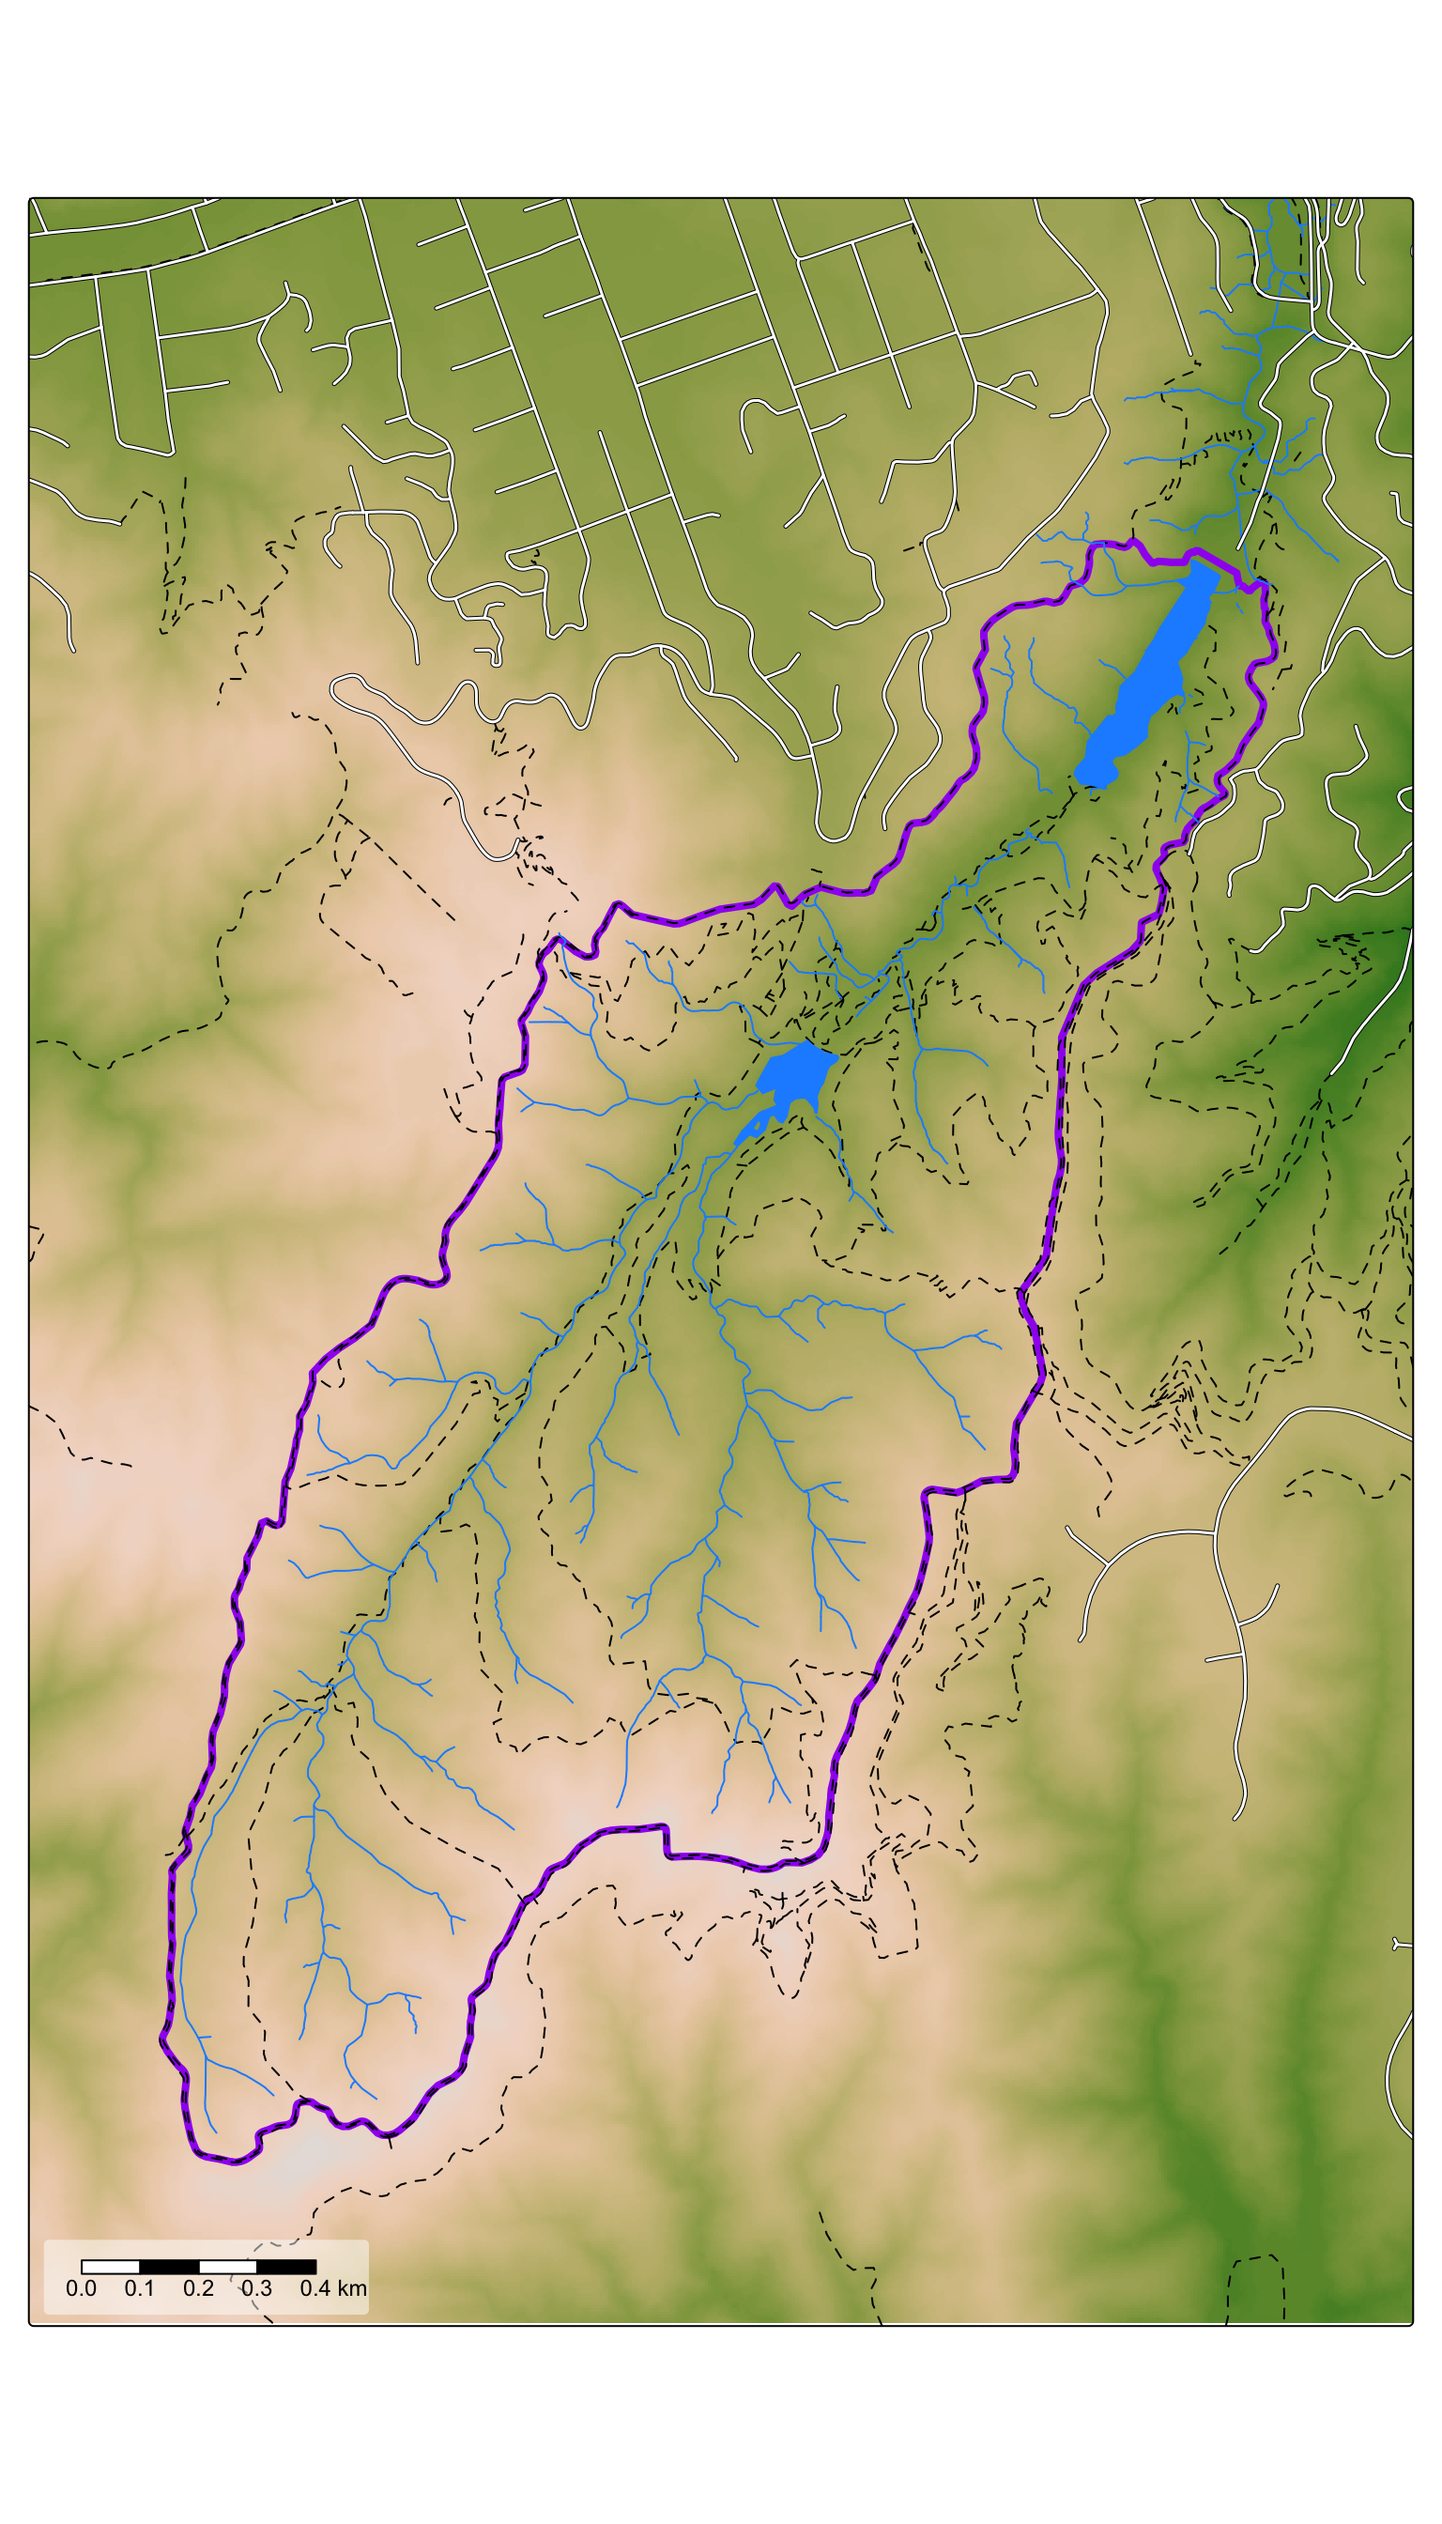
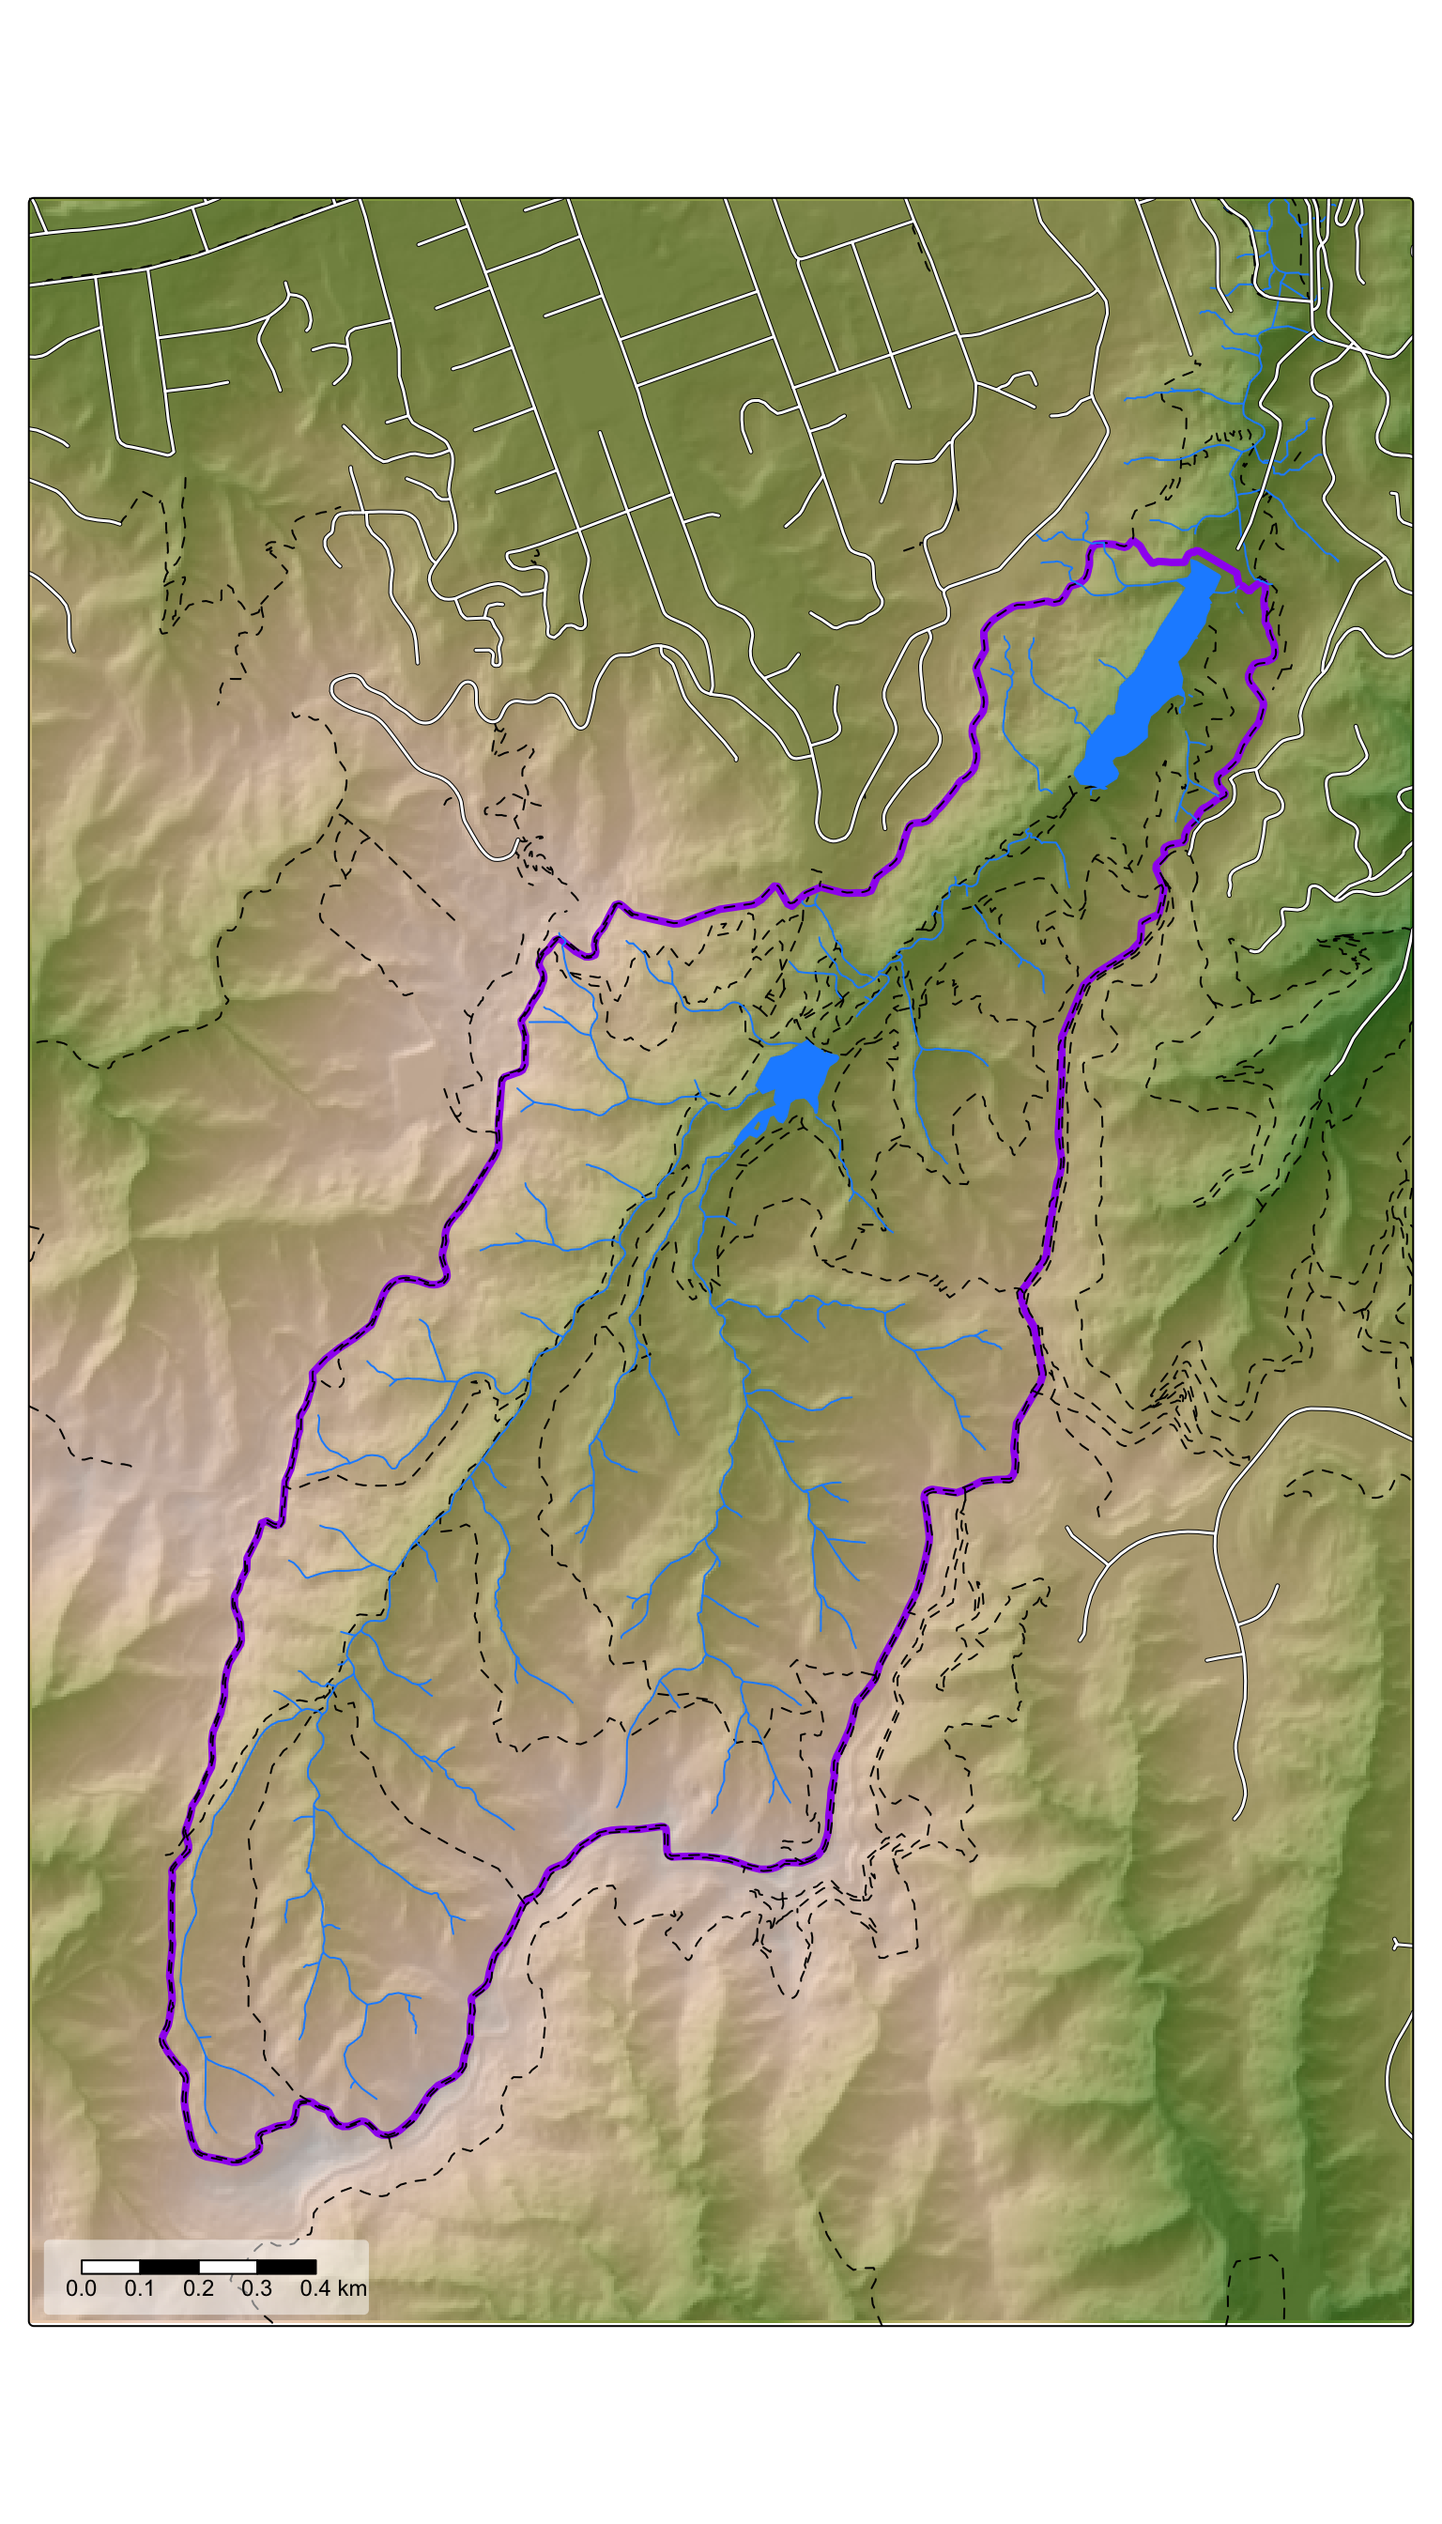
added hillshade to the zealandia location map

diff --git a/docs/posts/2025-10-23-gia-chapter-1B-part-4/index.html b/docs/posts/2025-10-23-gia-chapter-1B-part-4/index.html
@@ -340,7 +340,9 @@ window.Quarto = {
 <span id="cb3-3"><a href="#cb3-3" aria-hidden="true" tabindex="-1"></a>fence <span class="ot">&lt;-</span> <span class="fu">st_read</span>(<span class="st">"fences.gpkg"</span>) <span class="sc">|&gt;</span> <span class="fu">select</span>(NAME, TYPE) <span class="sc">|&gt;</span> <span class="fu">filter</span>(TYPE <span class="sc">==</span> <span class="st">"Main"</span>)</span>
 <span id="cb3-4"><a href="#cb3-4" aria-hidden="true" tabindex="-1"></a>streams <span class="ot">&lt;-</span> <span class="fu">st_read</span>(<span class="st">"streams.gpkg"</span>) <span class="sc">|&gt;</span> <span class="fu">select</span>()</span>
 <span id="cb3-5"><a href="#cb3-5" aria-hidden="true" tabindex="-1"></a>lake <span class="ot">&lt;-</span> <span class="fu">st_read</span>(<span class="st">"lake.gpkg"</span>) <span class="sc">|&gt;</span> <span class="fu">select</span>(name)</span>
-<span id="cb3-6"><a href="#cb3-6" aria-hidden="true" tabindex="-1"></a>roads <span class="ot">&lt;-</span> <span class="fu">st_read</span>(<span class="st">"roads.gpkg"</span>) <span class="sc">|&gt;</span> <span class="fu">select</span>(name, highway)</span></code><button title="Copy to Clipboard" class="code-copy-button"><i class="bi"></i></button></pre></div>
+<span id="cb3-6"><a href="#cb3-6" aria-hidden="true" tabindex="-1"></a>roads <span class="ot">&lt;-</span> <span class="fu">st_read</span>(<span class="st">"roads.gpkg"</span>) <span class="sc">|&gt;</span> <span class="fu">select</span>(name, highway)</span>
+<span id="cb3-7"><a href="#cb3-7" aria-hidden="true" tabindex="-1"></a>hillshade <span class="ot">&lt;-</span> <span class="fu">shade</span>(<span class="fu">terrain</span>(dem, <span class="at">unit =</span> <span class="st">"radians"</span>), </span>
+<span id="cb3-8"><a href="#cb3-8" aria-hidden="true" tabindex="-1"></a>                   <span class="fu">terrain</span>(dem, <span class="at">v =</span> <span class="st">"aspect"</span>, <span class="at">unit =</span> <span class="st">"radians"</span>), <span class="at">direction =</span> <span class="dv">315</span>)</span></code><button title="Copy to Clipboard" class="code-copy-button"><i class="bi"></i></button></pre></div>
 </details>
 </div>
 <p>Anyway, here’s a map. The focus of this post is on the underlying DEM which characteristically for Wellington is rugged!</p>
@@ -352,19 +354,23 @@ window.Quarto = {
 <span id="cb4-3"><a href="#cb4-3" aria-hidden="true" tabindex="-1"></a>    <span class="at">col.scale =</span> <span class="fu">tm_scale_continuous</span>(<span class="at">values =</span> <span class="st">"hcl.terrain2"</span>, </span>
 <span id="cb4-4"><a href="#cb4-4" aria-hidden="true" tabindex="-1"></a>                                    <span class="at">limits =</span> <span class="fu">c</span>(<span class="dv">50</span>, <span class="dv">400</span>)),</span>
 <span id="cb4-5"><a href="#cb4-5" aria-hidden="true" tabindex="-1"></a>    <span class="at">col.legend =</span> <span class="fu">tm_legend_hide</span>()) <span class="sc">+</span></span>
-<span id="cb4-6"><a href="#cb4-6" aria-hidden="true" tabindex="-1"></a>  <span class="fu">tm_shape</span>(fence) <span class="sc">+</span></span>
-<span id="cb4-7"><a href="#cb4-7" aria-hidden="true" tabindex="-1"></a>  <span class="fu">tm_lines</span>(<span class="at">col =</span> <span class="st">"purple"</span>, <span class="at">lwd =</span> <span class="dv">4</span>) <span class="sc">+</span></span>
-<span id="cb4-8"><a href="#cb4-8" aria-hidden="true" tabindex="-1"></a>  <span class="fu">tm_shape</span>(tracks) <span class="sc">+</span></span>
-<span id="cb4-9"><a href="#cb4-9" aria-hidden="true" tabindex="-1"></a>  <span class="fu">tm_lines</span>(<span class="at">lwd =</span> <span class="dv">1</span>, <span class="at">lty =</span> <span class="st">"dashed"</span>) <span class="sc">+</span></span>
-<span id="cb4-10"><a href="#cb4-10" aria-hidden="true" tabindex="-1"></a>  <span class="fu">tm_shape</span>(streams) <span class="sc">+</span></span>
-<span id="cb4-11"><a href="#cb4-11" aria-hidden="true" tabindex="-1"></a>  <span class="fu">tm_lines</span>(<span class="at">col =</span> <span class="st">"dodgerblue"</span>) <span class="sc">+</span></span>
-<span id="cb4-12"><a href="#cb4-12" aria-hidden="true" tabindex="-1"></a>  <span class="fu">tm_shape</span>(roads) <span class="sc">+</span></span>
-<span id="cb4-13"><a href="#cb4-13" aria-hidden="true" tabindex="-1"></a>  <span class="fu">tm_lines</span>(<span class="at">col =</span> <span class="st">"black"</span>, <span class="at">lwd =</span> <span class="fl">2.5</span>) <span class="sc">+</span></span>
-<span id="cb4-14"><a href="#cb4-14" aria-hidden="true" tabindex="-1"></a>  <span class="fu">tm_lines</span>(<span class="at">col =</span> <span class="st">"white"</span>, <span class="at">lwd =</span><span class="fl">1.5</span>) <span class="sc">+</span></span>
-<span id="cb4-15"><a href="#cb4-15" aria-hidden="true" tabindex="-1"></a>  <span class="fu">tm_shape</span>(lake) <span class="sc">+</span></span>
-<span id="cb4-16"><a href="#cb4-16" aria-hidden="true" tabindex="-1"></a>  <span class="fu">tm_fill</span>(<span class="at">fill =</span> <span class="st">"dodgerblue"</span>) <span class="sc">+</span></span>
-<span id="cb4-17"><a href="#cb4-17" aria-hidden="true" tabindex="-1"></a>  <span class="fu">tm_scalebar</span>(<span class="at">position =</span> <span class="fu">c</span>(<span class="fl">0.01</span>, <span class="fl">0.04</span>), <span class="at">text.size =</span> .<span class="dv">75</span>,</span>
-<span id="cb4-18"><a href="#cb4-18" aria-hidden="true" tabindex="-1"></a>              <span class="at">bg =</span> <span class="cn">TRUE</span>, <span class="at">bg.color =</span> <span class="st">"white"</span>, <span class="at">bg.alpha =</span> <span class="fl">0.5</span>)</span></code><button title="Copy to Clipboard" class="code-copy-button"><i class="bi"></i></button></pre></div>
+<span id="cb4-6"><a href="#cb4-6" aria-hidden="true" tabindex="-1"></a>  <span class="fu">tm_shape</span>(hillshade) <span class="sc">+</span></span>
+<span id="cb4-7"><a href="#cb4-7" aria-hidden="true" tabindex="-1"></a>  <span class="fu">tm_raster</span>(</span>
+<span id="cb4-8"><a href="#cb4-8" aria-hidden="true" tabindex="-1"></a>    <span class="at">col.scale =</span> <span class="fu">tm_scale_continuous</span>(<span class="at">values =</span> <span class="st">"brewer.greys"</span>),</span>
+<span id="cb4-9"><a href="#cb4-9" aria-hidden="true" tabindex="-1"></a>    <span class="at">col_alpha =</span> <span class="fl">0.25</span>, <span class="at">col.legend =</span> <span class="fu">tm_legend_hide</span>()) <span class="sc">+</span></span>
+<span id="cb4-10"><a href="#cb4-10" aria-hidden="true" tabindex="-1"></a>  <span class="fu">tm_shape</span>(fence) <span class="sc">+</span></span>
+<span id="cb4-11"><a href="#cb4-11" aria-hidden="true" tabindex="-1"></a>  <span class="fu">tm_lines</span>(<span class="at">col =</span> <span class="st">"purple"</span>, <span class="at">lwd =</span> <span class="dv">4</span>) <span class="sc">+</span></span>
+<span id="cb4-12"><a href="#cb4-12" aria-hidden="true" tabindex="-1"></a>  <span class="fu">tm_shape</span>(tracks) <span class="sc">+</span></span>
+<span id="cb4-13"><a href="#cb4-13" aria-hidden="true" tabindex="-1"></a>  <span class="fu">tm_lines</span>(<span class="at">lwd =</span> <span class="dv">1</span>, <span class="at">lty =</span> <span class="st">"dashed"</span>) <span class="sc">+</span></span>
+<span id="cb4-14"><a href="#cb4-14" aria-hidden="true" tabindex="-1"></a>  <span class="fu">tm_shape</span>(streams) <span class="sc">+</span></span>
+<span id="cb4-15"><a href="#cb4-15" aria-hidden="true" tabindex="-1"></a>  <span class="fu">tm_lines</span>(<span class="at">col =</span> <span class="st">"dodgerblue"</span>) <span class="sc">+</span></span>
+<span id="cb4-16"><a href="#cb4-16" aria-hidden="true" tabindex="-1"></a>  <span class="fu">tm_shape</span>(roads) <span class="sc">+</span></span>
+<span id="cb4-17"><a href="#cb4-17" aria-hidden="true" tabindex="-1"></a>  <span class="fu">tm_lines</span>(<span class="at">col =</span> <span class="st">"black"</span>, <span class="at">lwd =</span> <span class="fl">2.5</span>) <span class="sc">+</span></span>
+<span id="cb4-18"><a href="#cb4-18" aria-hidden="true" tabindex="-1"></a>  <span class="fu">tm_lines</span>(<span class="at">col =</span> <span class="st">"white"</span>, <span class="at">lwd =</span><span class="fl">1.5</span>) <span class="sc">+</span></span>
+<span id="cb4-19"><a href="#cb4-19" aria-hidden="true" tabindex="-1"></a>  <span class="fu">tm_shape</span>(lake) <span class="sc">+</span></span>
+<span id="cb4-20"><a href="#cb4-20" aria-hidden="true" tabindex="-1"></a>  <span class="fu">tm_fill</span>(<span class="at">fill =</span> <span class="st">"dodgerblue"</span>) <span class="sc">+</span></span>
+<span id="cb4-21"><a href="#cb4-21" aria-hidden="true" tabindex="-1"></a>  <span class="fu">tm_scalebar</span>(<span class="at">position =</span> <span class="fu">c</span>(<span class="fl">0.01</span>, <span class="fl">0.04</span>), <span class="at">text.size =</span> .<span class="dv">75</span>,</span>
+<span id="cb4-22"><a href="#cb4-22" aria-hidden="true" tabindex="-1"></a>              <span class="at">bg =</span> <span class="cn">TRUE</span>, <span class="at">bg.color =</span> <span class="st">"white"</span>, <span class="at">bg.alpha =</span> <span class="fl">0.5</span>)</span></code><button title="Copy to Clipboard" class="code-copy-button"><i class="bi"></i></button></pre></div>
 </details>
 <div class="cell-output-display">
 <div id="fig-base-map" class="quarto-float quarto-figure quarto-figure-center anchored">

diff --git a/docs/blog.html b/docs/blog.html
@@ -266,7 +266,7 @@ window.Quarto = {
 
 <div class="quarto-listing quarto-listing-container-default" id="listing-listing">
 <div class="list quarto-listing-default">
[2 lines of base64/hex data omitted]
 <div class="thumbnail">
 <p><a href="./posts/2025-10-23-gia-chapter-1B-part-4/index.html" class="no-external"></a></p><a href="./posts/2025-10-23-gia-chapter-1B-part-4/index.html" class="no-external">
 <p class="card-img-top"><img src="posts/2025-10-23-gia-chapter-1B-part-4/index_files/figure-html/fig-base-map-1.png"  class="thumbnail-image card-img"/></p>
